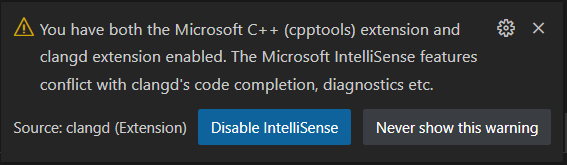
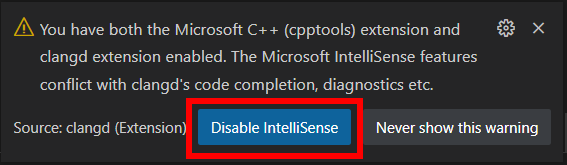
clangd lesson

Changed region(s): [[0.3298, 0.5758, 0.6596, 0.9697]]

diff --git a/content/lessons/ide.md b/content/lessons/ide.md
@@ -23,17 +23,12 @@ There are many extensions that can help you! Check out the recommended extension
 Here are some great extensions for VSCode that I recommend:
 
 - <VSCodeExtension id="ms-vscode.cpptools-extension-pack"/>: The Basic C++ extensions
-- <VSCodeExtension id="llvm-vs-code-extensions.vscode-clangd"/>: An improved extension that will help you coding in C++. This replaces the default Intellisense installed with <VSCodeExtension id="ms-vscode.cpptools-extension-pack"/> (but note that you still need to install both extensions).
-- <VSCodeExtension id="yzhang.markdown-all-in-one"/>: To preview your markdown and get help during edition (e.g. it can automatically generate a table of content).
 - <VSCodeExtension id="streetsidesoftware.code-spell-checker"/>: A great spell checker.
+- <VSCodeExtension id="yzhang.markdown-all-in-one"/>: To preview your markdown and get help during edition (e.g. it can automatically generate a table of content).
 - <VSCodeExtension id="emmanuelbeziat.vscode-great-icons"/>: Nice icons for many file types (.cpp, .hpp, CMakeLists.txt, etc.).
 - <VSCodeExtension id="ms-vsliveshare.vsliveshare"/>: This allows you to work remotely with your teammates in one single editor. It is amazing to work together!
 - <VSCodeExtension id="Shan.code-settings-sync"/>: Allows you to backup and synchronize your VSCode settings between different computers.
 - <VSCodeExtension id="josetr.cmake-language-support-vscode"/>: To provide autocompletion and formatting for CMake.
-
-## Settings up a C++ environment in VSCode
-
-- Install clangd extension. If it tells you to disable Intellisense, say yes. If you miss that step, go in the Settings, search for `C_Cpp.intelliSenseEngine` and set it to `Disabled`. (Otherwise it will conflict with *clangd* which is the extension that we will use to get autocompletion and many other amazing features.)
 
 ## Quick actions
 
@@ -42,7 +37,7 @@ Below are a few of the most important things that an IDE will help you with; I w
 ### Rename
 
 Right-click on any name and choose *Rename Symbol* (or put your text cursor on a name and use the shortcut <kbd>F2</kbd>).<br/>
-It is better than doing a "Find and Replace" because "Rename Symbol" is content-aware; e.g. if you rename a class called "Point" to something else it will not affect another class called "Point2D".
+It is better than doing a "Find and Replace" because "Rename Symbol" is content-aware; e.g. if you rename a class called "Point" it will not affect another class called "Point2D".
 
 ![](./img/rename.png)
 

diff --git a/content/lessons/clangd.md b/content/lessons/clangd.md
@@ -6,14 +6,15 @@ level: tools
 tags:
     - Tools
 ---
+import VSCodeExtension from "@site/components/VSCodeExtension"
 
-If you are familiar with intellisense (which is installed by default in Visual Studio and Visual Studio Code), clangd is the same kind of thing, but better (less laggy, more complete).
+If you are familiar with *IntelliSense* (which is installed by default in Visual Studio and Visual Studio Code), *clangd* is the same kind of thing, but better (less laggy, more complete). It will provide autocompletion, suggestions, detect bugs, etc.
 
-After you install the extension, you will see two prompts: one to disable intellisense, and one to download the actual language server. Say yes to both.
-
+- First, install the clangd extension: <VSCodeExtension id="llvm-vs-code-extensions.vscode-clangd"/>. 
+- It should then prompt you to disable IntelliSense, **say yes**. If you miss that step, go in the Settings, search for `C_Cpp.intelliSenseEngine` and set it to `Disabled`.
 ![](img/clangd-disable-intellisense.png)
+- It should then prompt you to download the actual language server, **say yes**.
+- Now go to your Settings (<kbd>CTRL</kbd>+<kbd>,</kbd>), search for `clangd arguments` and add `--compile-commands-dir=${workspaceFolder}/build`
 
-
-Setting "clangd arguments", ajouter `--compile-commands-dir=${workspaceFolder}/build`
-
-Dire oui quand il demande d'installer le serveur de langage et de désactiver Inetllisense.
+You should now be good to go! (If VSCode is not able to provide autocompletion, then something went wrong during the installation of *clangd*.)
+![clangd-autocompletion](img/clangd-autocompletion.png)

diff --git a/content/lessons/install-a-compiler.md b/content/lessons/install-a-compiler.md
@@ -22,7 +22,6 @@ A compiler is a program that takes your C++ code and creates an executable out o
 <Tabs>
   <TabItem value="windows" label="Windows">
 You will find all the explanations you need <a href = "https://code.visualstudio.com/docs/cpp/config-msvc">here</a> (<b>NB:</b> you only need to follow the <i>Prerequisites</i> section).<br/>
-I will just add that while you install MSVC, after selecting <b>Desktop development with C++</b>, in the <i>Installation details</i> on the right you must also check <i>C++ Clang tools for Windows</i> (We will need it later when we install some tools).
 <br/><br/>
 Then install CMake: go <a href="https://cmake.org/download/">here</a> and download and run the <i>Windows x64 Installer</i>.
   </TabItem>

diff --git a/content/lessons/ci.md b/content/lessons/ci.md
@@ -1,19 +1,8 @@
 ---
 title: Continuous Integration (CI)
-benefit: 5
-easiness: 5
+benefit: 4
+easiness: 3
 level: tools
 tags:
     - Tools
 ---
-
-If you are familiar with intellisense (which is installed by default in Visual Studio and Visual Studio Code), clangd is the same kind of thing, but better (less laggy, more complete).
-
-After you install the extension, you will see two prompts: one to disable intellisense, and one to download the actual language server. Say yes to both.
-
-![](img/clangd-disable-intellisense.png)
-
-
-Setting "clangd arguments", ajouter `--compile-commands-dir=${workspaceFolder}/build`
-
-Dire oui quand il demande d'installer le serveur de langage et de désactiver Inetllisense.
